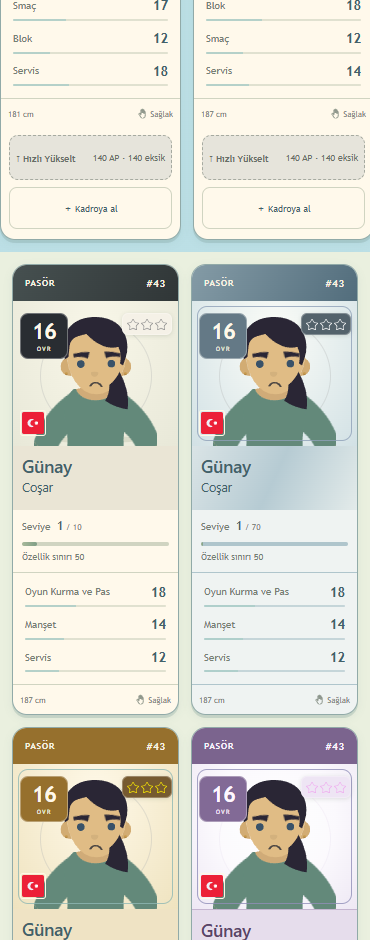
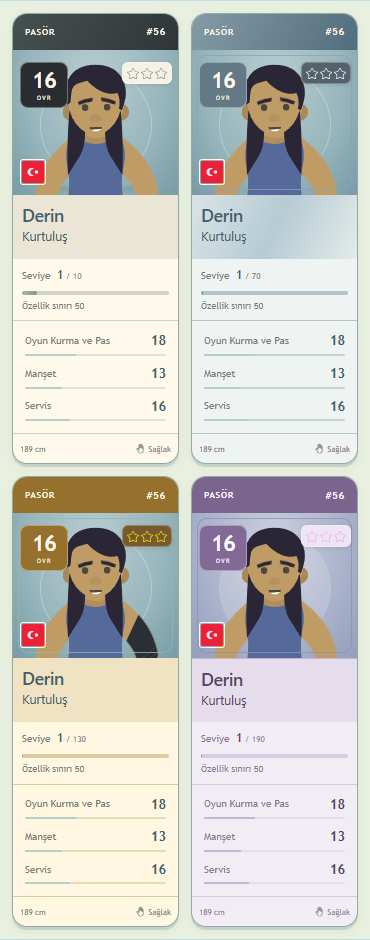
Improve player portrait backdrop contrast for all skin tones

diff --git a/index-beta.html b/index-beta.html
@@ -1,5 +1,5 @@
 <!doctype html>
-<html lang="tr" class="desktop-beta"><head><script src="desktop-beta-storage.js?v=df309e5c0cea"></script><script src="cheat-defaults.js?v=3f3b429b351f"></script><script src="flow-preview-environment.js?v=bd84173813bd"></script><meta charset="utf-8"><meta name="viewport" content="width=device-width,initial-scale=1,viewport-fit=cover"><meta name="theme-color" content="#72c8e5"><link rel="manifest" href="manifest.webmanifest"><link rel="apple-touch-icon" href="assets/app/apple-touch-icon.png"><meta name="apple-mobile-web-app-capable" content="yes"><meta name="apple-mobile-web-app-title" content="Idle Spiker"><meta name="apple-mobile-web-app-status-bar-style" content="default"><link rel="stylesheet" href="app-display.css?v=07395180a70d"><script src="app-display.js?v=6eab26d2992b" defer></script><title>Idle Spiker · Masaüstü Beta</title><link rel="stylesheet" href="menu.css?v=c016fb44e844"><link rel="stylesheet" href="menu-game.css?v=7f40c8954076"><link rel="stylesheet" href="team.css?v=bcffe6b92c1a"><link rel="stylesheet" href="league-season.css?v=c5e4b44d88a2"><style>#bootScreen{position:fixed;inset:0;max-width:480px;margin-inline:auto;z-index:10000;display:grid;place-content:center;justify-items:center;gap:8px;background:#fff3d7;color:#547c83;font-family:system-ui,sans-serif}#bootScreen strong{order:0;font-size:30px;letter-spacing:2px}#bootScreen strong span{color:#bb995b}#bootScreen p{order:1;font-size:12px;margin:0;color:#819383}#bootPepper{transform:translateZ(0);backface-visibility:hidden;contain:paint;object-fit:contain;order:2;margin-top:12px;visibility:visible;width:260px;height:212px;border:0;background:transparent;pointer-events:none}#bootScreen img{order:-1;margin-bottom:10px;width:48px;height:48px;animation:boot-bounce 1.2s ease-in-out infinite}@keyframes boot-bounce{50%{transform:translateY(-12px) rotate(18deg)}}@media(prefers-reduced-motion:reduce){#bootScreen img{animation:none}}</style><link rel="stylesheet" href="club-journey.css?v=a8162af5edc1"><link rel="stylesheet" href="bal-stage.css?v=03e79f9db703"><script src="season-clock.js?v=c90a74233800"></script><script src="bal-recovery.js?v=59d7a7b23c62"></script><script src="weekly-season-migration.js?v=c91052e58aec"></script><script src="number-ui.js?v=a24b5930e991"></script><link rel="stylesheet" href="theme.css?v=3c0c28bd21fb"><script src="theme.js?v=3046f3da7b5c"></script><link rel="stylesheet" href="achievements.css?v=2a8661c0d2be"><link rel="stylesheet" href="division-three.css?v=ef35af114b54"><link rel="stylesheet" href="social-screen.css?v=0bf69406736d"><link rel="stylesheet" href="league-players.css?v=86e88a43a3b5"><link rel="stylesheet" href="language.css?v=b027c2a552b8"><script src="language-data.js?v=3d3af7f60753"></script><script src="language.js?v=6352cc5dd035"></script><link rel="stylesheet" href="player-skills.css?v=da608137e96c"><link rel="stylesheet" href="styles/ui/player-club-card.css?v=f5e5d3b711c5"><link rel="stylesheet" href="styles/ui/transfer-center.css?v=80c355595696"><script src="scripts/ui/dialog-navigation.js?v=0988251be4a1" defer></script><link rel="stylesheet" href="social-journey.css?v=381c58c2dc22"><link rel="stylesheet" href="next-match-card.css?v=d739901623ff"><link rel="stylesheet" href="social-follower-counter.css?v=038892551d63"><link rel="stylesheet" href="player-profile.css?v=89c574b694fe"><link rel="stylesheet" href="ui-icons.css?v=b5ce6adfd485"><link rel="stylesheet" href="flow-effects.css?v=f82bf838ab8c"><link rel="stylesheet" href="board-doodles.css?v=85c5f17bdbe1"><link rel="stylesheet" href="board-presentation.css?v=3ae360fc348f"><link rel="stylesheet" href="progression-visuals.css?v=abd1b1d35d38"><link rel="stylesheet" href="flow-lanes.css?v=d6d148cc7fd3"><link rel="stylesheet" href="flow-media-theme.css?v=a959430cbe25"><link rel="stylesheet" href="ui-components.css?v=7b2e2900e58c"><link rel="stylesheet" href="academy.css?v=1f7eb14eaf73"><link rel="stylesheet" href="academy-career.css?v=c24b7b8e9637"><link rel="stylesheet" href="legendary-unlock-preview.css?v=247b90f08604"><script src="point-music-rules.js?v=8ce930b25ffd"></script><link rel="stylesheet" href="desktop-beta.css?v=43345844dd65"></head>
+<html lang="tr" class="desktop-beta"><head><script src="desktop-beta-storage.js?v=df309e5c0cea"></script><script src="cheat-defaults.js?v=3f3b429b351f"></script><script src="flow-preview-environment.js?v=bd84173813bd"></script><meta charset="utf-8"><meta name="viewport" content="width=device-width,initial-scale=1,viewport-fit=cover"><meta name="theme-color" content="#72c8e5"><link rel="manifest" href="manifest.webmanifest"><link rel="apple-touch-icon" href="assets/app/apple-touch-icon.png"><meta name="apple-mobile-web-app-capable" content="yes"><meta name="apple-mobile-web-app-title" content="Idle Spiker"><meta name="apple-mobile-web-app-status-bar-style" content="default"><link rel="stylesheet" href="app-display.css?v=07395180a70d"><script src="app-display.js?v=6eab26d2992b" defer></script><title>Idle Spiker · Masaüstü Beta</title><link rel="stylesheet" href="menu.css?v=c016fb44e844"><link rel="stylesheet" href="menu-game.css?v=7f40c8954076"><link rel="stylesheet" href="team.css?v=bcffe6b92c1a"><link rel="stylesheet" href="league-season.css?v=c5e4b44d88a2"><style>#bootScreen{position:fixed;inset:0;max-width:480px;margin-inline:auto;z-index:10000;display:grid;place-content:center;justify-items:center;gap:8px;background:#fff3d7;color:#547c83;font-family:system-ui,sans-serif}#bootScreen strong{order:0;font-size:30px;letter-spacing:2px}#bootScreen strong span{color:#bb995b}#bootScreen p{order:1;font-size:12px;margin:0;color:#819383}#bootPepper{transform:translateZ(0);backface-visibility:hidden;contain:paint;object-fit:contain;order:2;margin-top:12px;visibility:visible;width:260px;height:212px;border:0;background:transparent;pointer-events:none}#bootScreen img{order:-1;margin-bottom:10px;width:48px;height:48px;animation:boot-bounce 1.2s ease-in-out infinite}@keyframes boot-bounce{50%{transform:translateY(-12px) rotate(18deg)}}@media(prefers-reduced-motion:reduce){#bootScreen img{animation:none}}</style><link rel="stylesheet" href="club-journey.css?v=a8162af5edc1"><link rel="stylesheet" href="bal-stage.css?v=03e79f9db703"><script src="season-clock.js?v=c90a74233800"></script><script src="bal-recovery.js?v=59d7a7b23c62"></script><script src="weekly-season-migration.js?v=c91052e58aec"></script><script src="number-ui.js?v=a24b5930e991"></script><link rel="stylesheet" href="theme.css?v=3c0c28bd21fb"><script src="theme.js?v=3046f3da7b5c"></script><link rel="stylesheet" href="achievements.css?v=2a8661c0d2be"><link rel="stylesheet" href="division-three.css?v=ef35af114b54"><link rel="stylesheet" href="social-screen.css?v=0bf69406736d"><link rel="stylesheet" href="league-players.css?v=86e88a43a3b5"><link rel="stylesheet" href="language.css?v=b027c2a552b8"><script src="language-data.js?v=3d3af7f60753"></script><script src="language.js?v=6352cc5dd035"></script><link rel="stylesheet" href="player-skills.css?v=da608137e96c"><link rel="stylesheet" href="styles/ui/player-club-card.css?v=c36082d602ba"><link rel="stylesheet" href="styles/ui/transfer-center.css?v=80c355595696"><script src="scripts/ui/dialog-navigation.js?v=0988251be4a1" defer></script><link rel="stylesheet" href="social-journey.css?v=381c58c2dc22"><link rel="stylesheet" href="next-match-card.css?v=d739901623ff"><link rel="stylesheet" href="social-follower-counter.css?v=038892551d63"><link rel="stylesheet" href="player-profile.css?v=89c574b694fe"><link rel="stylesheet" href="ui-icons.css?v=b5ce6adfd485"><link rel="stylesheet" href="flow-effects.css?v=f82bf838ab8c"><link rel="stylesheet" href="board-doodles.css?v=85c5f17bdbe1"><link rel="stylesheet" href="board-presentation.css?v=3ae360fc348f"><link rel="stylesheet" href="progression-visuals.css?v=abd1b1d35d38"><link rel="stylesheet" href="flow-lanes.css?v=d6d148cc7fd3"><link rel="stylesheet" href="flow-media-theme.css?v=a959430cbe25"><link rel="stylesheet" href="ui-components.css?v=7b2e2900e58c"><link rel="stylesheet" href="academy.css?v=1f7eb14eaf73"><link rel="stylesheet" href="academy-career.css?v=c24b7b8e9637"><link rel="stylesheet" href="legendary-unlock-preview.css?v=247b90f08604"><script src="point-music-rules.js?v=8ce930b25ffd"></script><link rel="stylesheet" href="desktop-beta.css?v=43345844dd65"></head>
 <body><div id="bootScreen" role="status" aria-live="polite"><img src="assets/balls/atlas-1.png" alt="" width="48" height="48"><strong>IDLE<span>SPIKER</span></strong><p>Kulüp hazırlanıyor…</p></div><script>window.bootStartedAt=performance.now();window.bootFallback=setTimeout(function(){document.getElementById("bootScreen")?.remove()},10000)</script><div class="shell"><aside class="rail"><a class="brand" href="index-beta.html" aria-label="Idle Spiker ana menü"><svg viewBox="0 0 40 40" aria-hidden="true"><circle cx="20" cy="20" r="15"/><path d="M7 13q15 0 18 22M19 5q-5 13-12 19M34 17q-12-3-19 13"/></svg></a><span class="rail-word">IDLE SPIKER</span><a class="rail-icon active" href="index-beta.html" aria-label="Kulüp merkezi" title="Kulüp merkezi">⌂</a><span class="rail-bottom">01 / CLUB</span></aside>
 <div class="content"><header class="topbar"><a href="index-beta.html" class="wordmark">IDLE<span>SPIKER</span><small>VOLEYBOL KULÜBÜ</small></a><nav aria-label="Ana gezinme"><span class="nav-current">Kulüp merkezi</span></nav><button id="settingsButton" class="settings-button" type="button" aria-label="Ayarları aç">⚙ Ayarlar</button></header>
 <main><div class="dashboard"><section id="clubPanel" class="club-panel" aria-label="Kulüp departmanları"><div class="section-top"><div><span class="eyebrow">BİZİM KULÜP · AŞAMA 1</span></div></div>

diff --git a/index.html b/index.html
@@ -1,5 +1,5 @@
 <!doctype html>
-<html lang="tr"><head><script src="cheat-defaults.js?v=3f3b429b351f"></script><script src="flow-preview-environment.js?v=bd84173813bd"></script><meta charset="utf-8"><meta name="viewport" content="width=device-width,initial-scale=1,viewport-fit=cover"><meta name="theme-color" content="#72c8e5"><link rel="manifest" href="manifest.webmanifest"><link rel="apple-touch-icon" href="assets/app/apple-touch-icon.png"><meta name="apple-mobile-web-app-capable" content="yes"><meta name="apple-mobile-web-app-title" content="Idle Spiker"><meta name="apple-mobile-web-app-status-bar-style" content="default"><link rel="stylesheet" href="app-display.css?v=07395180a70d"><script src="app-display.js?v=6eab26d2992b" defer></script><title>Idle Spiker · Kulüp Merkezi</title><link rel="stylesheet" href="menu.css?v=c016fb44e844"><link rel="stylesheet" href="menu-game.css?v=7f40c8954076"><link rel="stylesheet" href="team.css?v=bcffe6b92c1a"><link rel="stylesheet" href="league-season.css?v=c5e4b44d88a2"><style>#bootScreen{position:fixed;inset:0;max-width:480px;margin-inline:auto;z-index:10000;display:grid;place-content:center;justify-items:center;gap:8px;background:#fff3d7;color:#547c83;font-family:system-ui,sans-serif}#bootScreen strong{order:0;font-size:30px;letter-spacing:2px}#bootScreen strong span{color:#bb995b}#bootScreen p{order:1;font-size:12px;margin:0;color:#819383}#bootPepper{transform:translateZ(0);backface-visibility:hidden;contain:paint;object-fit:contain;order:2;margin-top:12px;visibility:visible;width:260px;height:212px;border:0;background:transparent;pointer-events:none}#bootScreen img{order:-1;margin-bottom:10px;width:48px;height:48px;animation:boot-bounce 1.2s ease-in-out infinite}@keyframes boot-bounce{50%{transform:translateY(-12px) rotate(18deg)}}@media(prefers-reduced-motion:reduce){#bootScreen img{animation:none}}</style><link rel="stylesheet" href="club-journey.css?v=a8162af5edc1"><link rel="stylesheet" href="bal-stage.css?v=03e79f9db703"><script src="season-clock.js?v=c90a74233800"></script><script src="bal-recovery.js?v=59d7a7b23c62"></script><script src="weekly-season-migration.js?v=c91052e58aec"></script><script src="number-ui.js?v=a24b5930e991"></script><link rel="stylesheet" href="theme.css?v=3c0c28bd21fb"><script src="theme.js?v=3046f3da7b5c"></script><link rel="stylesheet" href="achievements.css?v=2a8661c0d2be"><link rel="stylesheet" href="division-three.css?v=ef35af114b54"><link rel="stylesheet" href="social-screen.css?v=0bf69406736d"><link rel="stylesheet" href="league-players.css?v=86e88a43a3b5"><link rel="stylesheet" href="language.css?v=b027c2a552b8"><script src="language-data.js?v=3d3af7f60753"></script><script src="language.js?v=6352cc5dd035"></script><link rel="stylesheet" href="player-skills.css?v=da608137e96c"><link rel="stylesheet" href="styles/ui/player-club-card.css?v=f5e5d3b711c5"><link rel="stylesheet" href="styles/ui/transfer-center.css?v=80c355595696"><script src="scripts/ui/dialog-navigation.js?v=0988251be4a1" defer></script><link rel="stylesheet" href="social-journey.css?v=381c58c2dc22"><link rel="stylesheet" href="next-match-card.css?v=d739901623ff"><link rel="stylesheet" href="social-follower-counter.css?v=038892551d63"><link rel="stylesheet" href="player-profile.css?v=89c574b694fe"><link rel="stylesheet" href="ui-icons.css?v=b5ce6adfd485"><link rel="stylesheet" href="flow-effects.css?v=f82bf838ab8c"><link rel="stylesheet" href="board-doodles.css?v=85c5f17bdbe1"><link rel="stylesheet" href="board-presentation.css?v=3ae360fc348f"><link rel="stylesheet" href="progression-visuals.css?v=abd1b1d35d38"><link rel="stylesheet" href="flow-lanes.css?v=d6d148cc7fd3"><link rel="stylesheet" href="flow-media-theme.css?v=a959430cbe25"><link rel="stylesheet" href="ui-components.css?v=7b2e2900e58c"><link rel="stylesheet" href="academy.css?v=1f7eb14eaf73"><link rel="stylesheet" href="academy-career.css?v=c24b7b8e9637"><link rel="stylesheet" href="legendary-unlock-preview.css?v=247b90f08604"><script src="point-music-rules.js?v=8ce930b25ffd"></script><link rel="stylesheet" href="playtest-recorder.css?v=6bbab40bb134"></head>
+<html lang="tr"><head><script src="cheat-defaults.js?v=3f3b429b351f"></script><script src="flow-preview-environment.js?v=bd84173813bd"></script><meta charset="utf-8"><meta name="viewport" content="width=device-width,initial-scale=1,viewport-fit=cover"><meta name="theme-color" content="#72c8e5"><link rel="manifest" href="manifest.webmanifest"><link rel="apple-touch-icon" href="assets/app/apple-touch-icon.png"><meta name="apple-mobile-web-app-capable" content="yes"><meta name="apple-mobile-web-app-title" content="Idle Spiker"><meta name="apple-mobile-web-app-status-bar-style" content="default"><link rel="stylesheet" href="app-display.css?v=07395180a70d"><script src="app-display.js?v=6eab26d2992b" defer></script><title>Idle Spiker · Kulüp Merkezi</title><link rel="stylesheet" href="menu.css?v=c016fb44e844"><link rel="stylesheet" href="menu-game.css?v=7f40c8954076"><link rel="stylesheet" href="team.css?v=bcffe6b92c1a"><link rel="stylesheet" href="league-season.css?v=c5e4b44d88a2"><style>#bootScreen{position:fixed;inset:0;max-width:480px;margin-inline:auto;z-index:10000;display:grid;place-content:center;justify-items:center;gap:8px;background:#fff3d7;color:#547c83;font-family:system-ui,sans-serif}#bootScreen strong{order:0;font-size:30px;letter-spacing:2px}#bootScreen strong span{color:#bb995b}#bootScreen p{order:1;font-size:12px;margin:0;color:#819383}#bootPepper{transform:translateZ(0);backface-visibility:hidden;contain:paint;object-fit:contain;order:2;margin-top:12px;visibility:visible;width:260px;height:212px;border:0;background:transparent;pointer-events:none}#bootScreen img{order:-1;margin-bottom:10px;width:48px;height:48px;animation:boot-bounce 1.2s ease-in-out infinite}@keyframes boot-bounce{50%{transform:translateY(-12px) rotate(18deg)}}@media(prefers-reduced-motion:reduce){#bootScreen img{animation:none}}</style><link rel="stylesheet" href="club-journey.css?v=a8162af5edc1"><link rel="stylesheet" href="bal-stage.css?v=03e79f9db703"><script src="season-clock.js?v=c90a74233800"></script><script src="bal-recovery.js?v=59d7a7b23c62"></script><script src="weekly-season-migration.js?v=c91052e58aec"></script><script src="number-ui.js?v=a24b5930e991"></script><link rel="stylesheet" href="theme.css?v=3c0c28bd21fb"><script src="theme.js?v=3046f3da7b5c"></script><link rel="stylesheet" href="achievements.css?v=2a8661c0d2be"><link rel="stylesheet" href="division-three.css?v=ef35af114b54"><link rel="stylesheet" href="social-screen.css?v=0bf69406736d"><link rel="stylesheet" href="league-players.css?v=86e88a43a3b5"><link rel="stylesheet" href="language.css?v=b027c2a552b8"><script src="language-data.js?v=3d3af7f60753"></script><script src="language.js?v=6352cc5dd035"></script><link rel="stylesheet" href="player-skills.css?v=da608137e96c"><link rel="stylesheet" href="styles/ui/player-club-card.css?v=c36082d602ba"><link rel="stylesheet" href="styles/ui/transfer-center.css?v=80c355595696"><script src="scripts/ui/dialog-navigation.js?v=0988251be4a1" defer></script><link rel="stylesheet" href="social-journey.css?v=381c58c2dc22"><link rel="stylesheet" href="next-match-card.css?v=d739901623ff"><link rel="stylesheet" href="social-follower-counter.css?v=038892551d63"><link rel="stylesheet" href="player-profile.css?v=89c574b694fe"><link rel="stylesheet" href="ui-icons.css?v=b5ce6adfd485"><link rel="stylesheet" href="flow-effects.css?v=f82bf838ab8c"><link rel="stylesheet" href="board-doodles.css?v=85c5f17bdbe1"><link rel="stylesheet" href="board-presentation.css?v=3ae360fc348f"><link rel="stylesheet" href="progression-visuals.css?v=abd1b1d35d38"><link rel="stylesheet" href="flow-lanes.css?v=d6d148cc7fd3"><link rel="stylesheet" href="flow-media-theme.css?v=a959430cbe25"><link rel="stylesheet" href="ui-components.css?v=7b2e2900e58c"><link rel="stylesheet" href="academy.css?v=1f7eb14eaf73"><link rel="stylesheet" href="academy-career.css?v=c24b7b8e9637"><link rel="stylesheet" href="legendary-unlock-preview.css?v=247b90f08604"><script src="point-music-rules.js?v=8ce930b25ffd"></script><link rel="stylesheet" href="playtest-recorder.css?v=6bbab40bb134"></head>
 <body><div id="bootScreen" role="status" aria-live="polite"><img src="assets/balls/atlas-1.png" alt="" width="48" height="48"><strong>IDLE<span>SPIKER</span></strong><p>Kulüp hazırlanıyor…</p></div><script>window.bootStartedAt=performance.now();window.bootFallback=setTimeout(function(){document.getElementById("bootScreen")?.remove()},10000)</script><div class="shell"><aside class="rail"><a class="brand" href="index.html" aria-label="Idle Spiker ana menü"><svg viewBox="0 0 40 40" aria-hidden="true"><circle cx="20" cy="20" r="15"/><path d="M7 13q15 0 18 22M19 5q-5 13-12 19M34 17q-12-3-19 13"/></svg></a><span class="rail-word">IDLE SPIKER</span><a class="rail-icon active" href="index.html" aria-label="Kulüp merkezi" title="Kulüp merkezi">⌂</a><span class="rail-bottom">01 / CLUB</span></aside>
 <div class="content"><header class="topbar"><a href="index.html" class="wordmark">IDLE<span>SPIKER</span><small>VOLEYBOL KULÜBÜ</small></a><nav aria-label="Ana gezinme"><span class="nav-current">Kulüp merkezi</span></nav><button id="settingsButton" class="settings-button" type="button" aria-label="Ayarları aç">⚙ Ayarlar</button></header>
 <main><div class="dashboard"><section id="clubPanel" class="club-panel" aria-label="Kulüp departmanları"><div class="section-top"><div><span class="eyebrow">BİZİM KULÜP · AŞAMA 1</span></div></div>

diff --git a/card-design-preview.html b/card-design-preview.html
@@ -1,1 +1,1 @@
-<!doctype html><html lang="tr" class="elite-preview-page"><head><meta charset="utf-8"><meta name="viewport" content="width=device-width,initial-scale=1"><title>Oyuncu kartı tasarımları</title><link rel="stylesheet" href="team.css?v=bcffe6b92c1a"><link rel="stylesheet" href="styles/ui/player-club-card.css?v=f5e5d3b711c5"><link rel="stylesheet" href="styles/ui/transfer-center.css?v=80c355595696"><link rel="stylesheet" href="ui-components.css?v=7b2e2900e58c"><link rel="stylesheet" href="elite-design-preview.css?v=8690d2b240a5"></head><body><main id="scoutDialog"><section aria-labelledby="cardSeriesTitle"><header class="card-lab-heading"><small>KARTIN GÖRSEL GELİŞİMİ</small><h2 id="cardSeriesTitle">Siyah · Gümüş · Altın · Mor</h2><p>Aynı oyuncu ve aynı OVR. Aşamalar, kartın görünüşünü karşılaştırmak içindir.</p></header><div id="cardProgression" class="card-lab-grid"></div></section><section aria-labelledby="potentialTitle"><header class="card-lab-heading"><small>AKADEMİ · POTANSİYELLİ GENÇLER</small><h2 id="potentialTitle">Geleceği henüz belli değil.</h2><p>Şimdiki OVR görünür. Mezuniyet gücü: ???</p></header><div id="eliteOptions" class="card-lab-grid"></div></section></main><script src="ui-icons-data.js?v=6804bbcfcd59"></script><script src="prospect-potential-rules.js?v=d08455300ece"></script><script src="player-card-presentation.js?v=ab24a8ee8f09"></script><script src="card-lab-template.js?v=f9ce24745e08"></script><script src="elite-design-preview.js?v=c67fcf020e1e"></script></body></html>
+<!doctype html><html lang="tr" class="elite-preview-page"><head><meta charset="utf-8"><meta name="viewport" content="width=device-width,initial-scale=1"><title>Oyuncu kartı tasarımları</title><link rel="stylesheet" href="team.css?v=bcffe6b92c1a"><link rel="stylesheet" href="styles/ui/player-club-card.css?v=c36082d602ba"><link rel="stylesheet" href="styles/ui/transfer-center.css?v=80c355595696"><link rel="stylesheet" href="ui-components.css?v=7b2e2900e58c"><link rel="stylesheet" href="elite-design-preview.css?v=8690d2b240a5"></head><body><main id="scoutDialog"><section aria-labelledby="cardSeriesTitle"><header class="card-lab-heading"><small>KARTIN GÖRSEL GELİŞİMİ</small><h2 id="cardSeriesTitle">Siyah · Gümüş · Altın · Mor</h2><p>Aynı oyuncu ve aynı OVR. Aşamalar, kartın görünüşünü karşılaştırmak içindir.</p></header><div id="cardProgression" class="card-lab-grid"></div></section><section aria-labelledby="potentialTitle"><header class="card-lab-heading"><small>AKADEMİ · POTANSİYELLİ GENÇLER</small><h2 id="potentialTitle">Geleceği henüz belli değil.</h2><p>Şimdiki OVR görünür. Mezuniyet gücü: ???</p></header><div id="eliteOptions" class="card-lab-grid"></div></section></main><script src="ui-icons-data.js?v=6804bbcfcd59"></script><script src="prospect-potential-rules.js?v=d08455300ece"></script><script src="player-card-presentation.js?v=ab24a8ee8f09"></script><script src="card-lab-template.js?v=f9ce24745e08"></script><script src="elite-design-preview.js?v=c67fcf020e1e"></script></body></html>

diff --git a/styles/ui/player-club-card.css b/styles/ui/player-club-card.css
@@ -191,3 +191,10 @@ html body #teamPanel .player-card[data-card-tier="2"]{--quick-action:#80612e}
 html body #teamPanel .player-card:is([data-card-tier="3"],.elite-player){--quick-action:#735783}
 html body #teamPanel .player-card .card-open-upgrade small{color:inherit!important}
 html[data-theme=dark] body #teamPanel .player-card .card-open-upgrade:disabled{background:#344344!important;border-color:#718281!important;color:#c1cac4!important}
+
+/* Cool gym backdrop keeps warm skin tones distinct across card materials. */
+html:not(.elite-preview-page) .player-card.player-card .card-art{background:radial-gradient(ellipse at 50% 22%,#b8ced0 0%,#98b6bd 58%,#789ba6 100%)!important}
+html:not(.elite-preview-page) .player-card.player-card.elite-player .card-art{background:radial-gradient(ellipse at 50% 22%,#cbd0df 0%,#acb4cc 58%,#939fbc 100%)!important}
+html:not(.elite-preview-page) .player-card.player-card .card-halo{background:transparent;border-color:#eef6ee55}
+html[data-theme=dark]:not(.elite-preview-page) .player-card.player-card .card-art{background:radial-gradient(ellipse at 50% 22%,#8ba8b3 0%,#6b8d9b 58%,#527384 100%)!important}
+html[data-theme=dark]:not(.elite-preview-page) .player-card.player-card.elite-player .card-art{background:radial-gradient(ellipse at 50% 22%,#a4adc8 0%,#858eaf 58%,#6b789d 100%)!important}

diff --git a/DESIGN-SYSTEM.md b/DESIGN-SYSTEM.md
@@ -999,3 +999,5 @@ Ek doğrulama: test-request-followups.cjs gerçek sosyal medya işiyle geçişte
 29 Ekim forma arması ölçüsü: portrede 28×30 yerine 36×38 kaynak piksel; sol göğüsteki yatay merkez ve üst hizası korunur.
 
 29 Ekim oyuncu portresi kadraj düzeltmesi: Eski 150 65 300 355 kadrajı bileklerden keserek ten rengi kolları düz blok gibi gösteriyordu. Son kullanıcı kararıyla yalnız playerPortrait için 125 65 350 375 üst gövde kadrajı kullanılır: baş, omuzlar ve forma görünür; şort/bacak katmanları çizilmez, kart kutusu/OVR/yıldız/ülke hizaları değişmez. Profil editörü eski kadrajını korur; fullBody ve upperBody açık istekleri önceliklidir. Kontrol: jersey-roster-mobile.png ve jersey-front-colors.png elle incelendi; test-player-jersey-front.cjs ve test-portrait-arm-gear.cjs geçti.
+
+29 Ekim portre kontrastı: Oyuncu kartlarının krem/ten rengiyle karışan portre zemini soğuk, mat salon mavisi-gri geçişle değiştirildi. Tüm kart kademeleri aynı zemin ailesini kullanır; gerçek elitlerde hafif lavanta, karanlık temada daha derin tonlar vardır. Yüz/gövde renkleri ve kartın başlık/isim/çerçeve materyalleri değişmez. Halo dolgusuz ve ince açık çizgidir.
